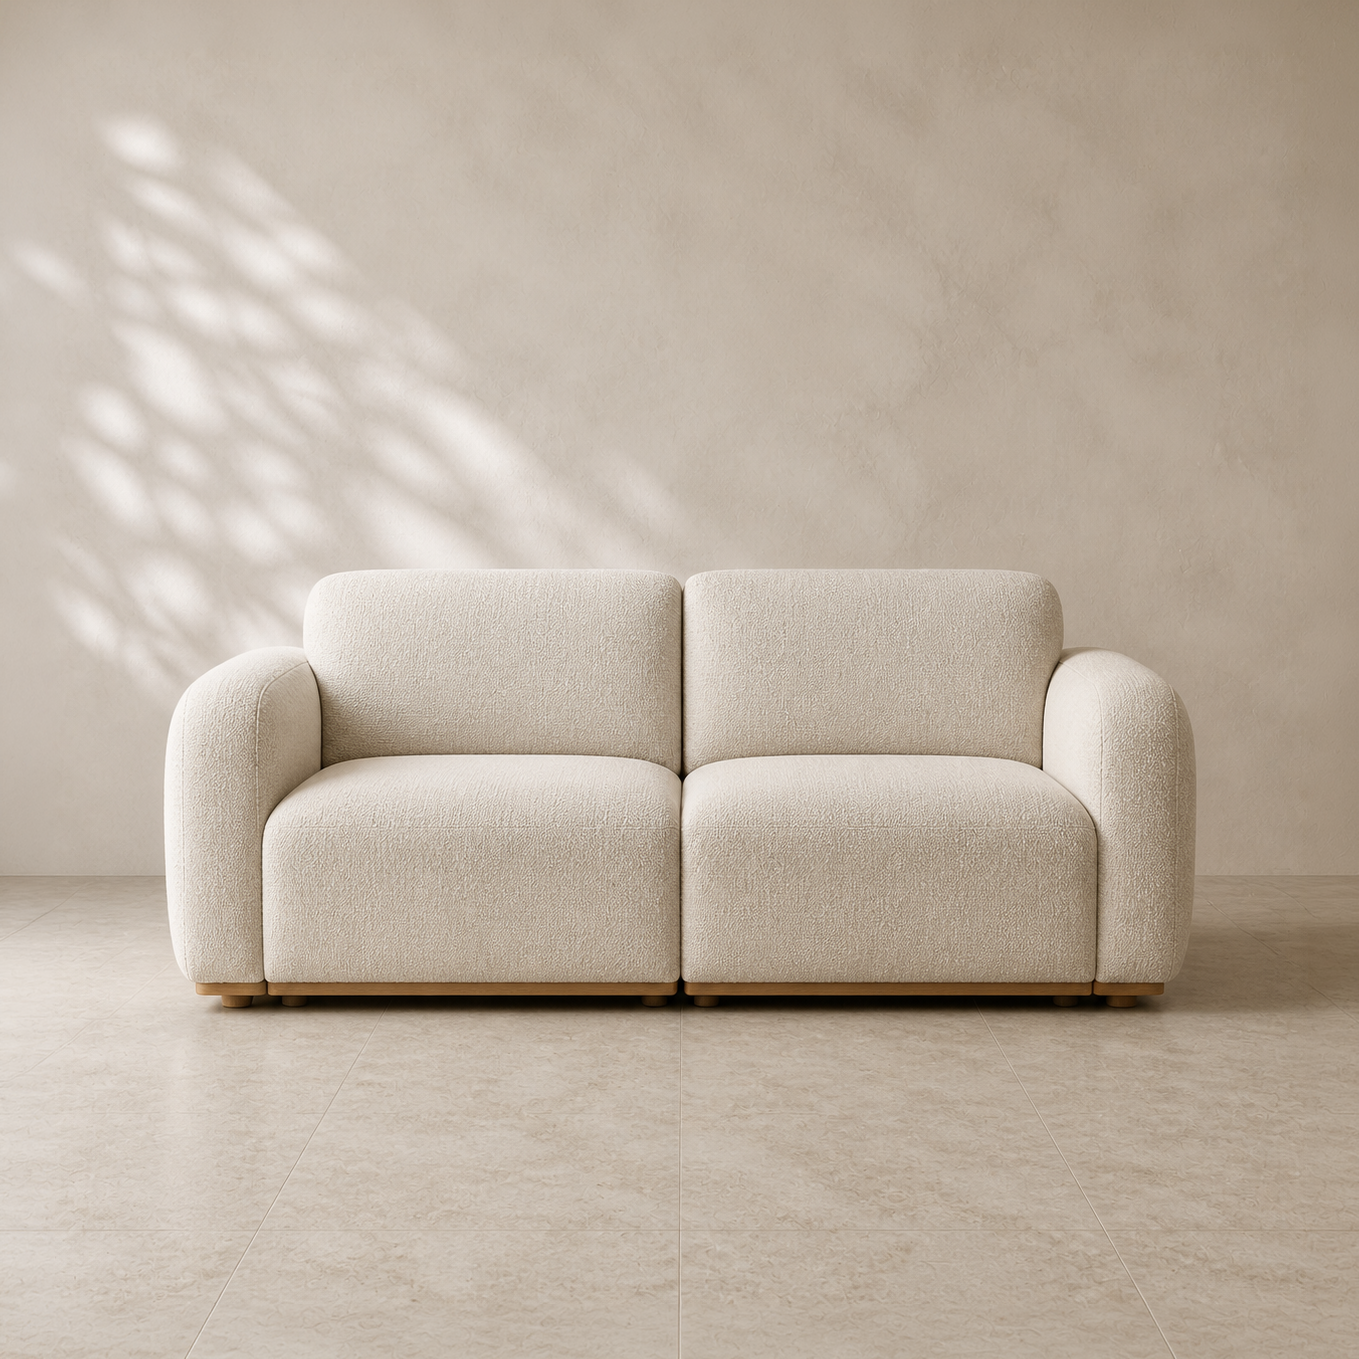
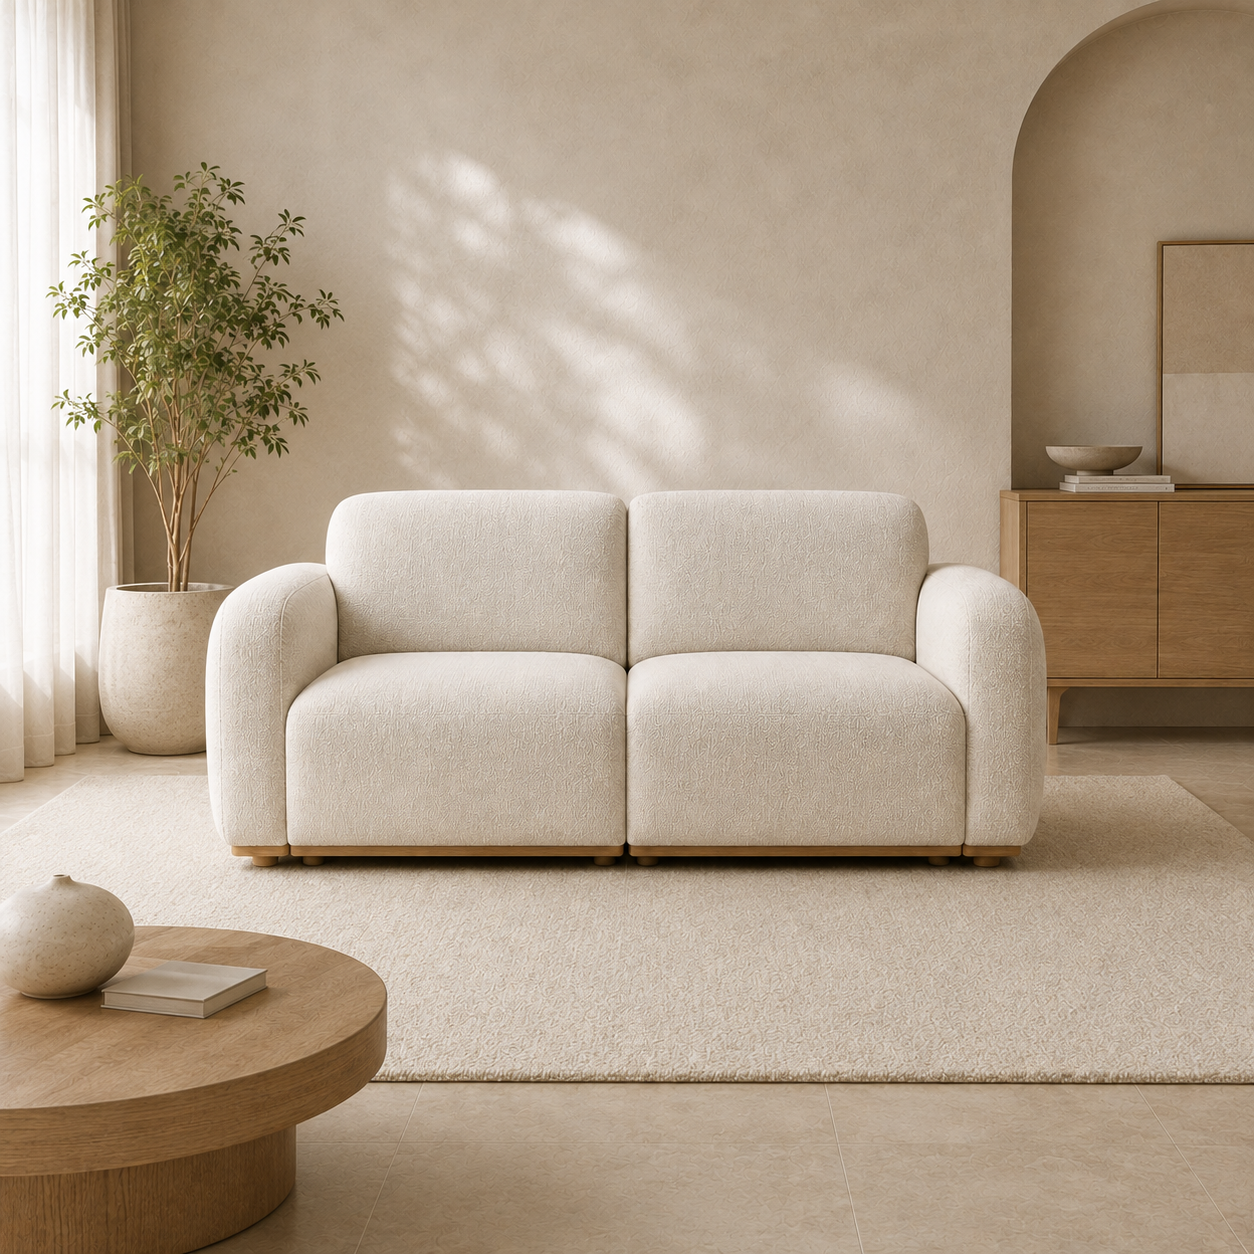
feat(catalog): add Lento and Aura galleries

diff --git a/src/modules/catalog/mock-data.ts b/src/modules/catalog/mock-data.ts
@@ -95,7 +95,15 @@ export const lentoSofaProduct = {
   currency: "BYN",
   image: "/images/sofas/lento-sofa/01-main.png",
   imageAlt: "Светлый двухместный диван Lento с округлыми подлокотниками",
-  gallery: [{ src: "/images/sofas/lento-sofa/01-main.png", alt: "Двухместный диван Lento" }],
+  gallery: [
+    { src: "/images/sofas/lento-sofa/01-main.png", alt: "Двухместный диван Lento" },
+    { src: "/images/sofas/lento-sofa/02-side.png", alt: "Диван Lento, вид сбоку" },
+    { src: "/images/sofas/lento-sofa/03-armrest.png", alt: "Подлокотник дивана Lento" },
+    { src: "/images/sofas/lento-sofa/04-leg.png", alt: "Опора дивана Lento крупным планом" },
+    { src: "/images/sofas/lento-sofa/05-top.png", alt: "Диван Lento, вид сверху" },
+    { src: "/images/sofas/lento-sofa/06-unfolded.png", alt: "Диван Lento в разложенном виде" },
+    { src: "/images/sofas/lento-sofa/07-main.png", alt: "Диван Lento, дополнительный общий вид" },
+  ],
   specifications: [
     { label: "Размер", value: "184 × 94 × 76 см" },
     { label: "Каркас", value: "Берёзовая фанера, массив" },
@@ -151,7 +159,15 @@ export const auraSofaProduct = {
   currency: "BYN",
   image: "/images/sofas/aura-sofa/01-main.png",
   imageAlt: "Коричневый трёхместный диван Aura с округлой спинкой",
-  gallery: [{ src: "/images/sofas/aura-sofa/01-main.png", alt: "Скульптурный диван Aura" }],
+  gallery: [
+    { src: "/images/sofas/aura-sofa/01-main.png", alt: "Скульптурный диван Aura" },
+    { src: "/images/sofas/aura-sofa/02-side.png", alt: "Диван Aura, вид сбоку" },
+    { src: "/images/sofas/aura-sofa/03-armrest.png", alt: "Подлокотник дивана Aura" },
+    { src: "/images/sofas/aura-sofa/04-leg.png", alt: "Опора дивана Aura крупным планом" },
+    { src: "/images/sofas/aura-sofa/05-top.png", alt: "Диван Aura, вид сверху" },
+    { src: "/images/sofas/aura-sofa/06-unfolded.png", alt: "Диван Aura в разложенном виде" },
+    { src: "/images/sofas/aura-sofa/07-main.png", alt: "Диван Aura, дополнительный общий вид" },
+  ],
   specifications: [
     { label: "Размер", value: "246 × 102 × 73 см" },
     { label: "Основание", value: "Массив ореха" },

diff --git a/docs/progress.md b/docs/progress.md
@@ -1012,3 +1012,18 @@ tests/e2e/accessibility.spec.ts tests/e2e/header.spec.ts --project=chromium` —
 - Product Tour: обновлены описание галереи страницы товара и расположение локальных изображений.
 - Ограничения: дополнительные фотографии `02–06` пользователь добавляет самостоятельно; до их
   добавления товары показывают единственное основное изображение без элементов переключения.
+
+## Task 68 — Галереи диванов Lento и Aura
+
+- Результат: галереи диванов Lento и Aura расширены до семи локальных изображений каждая; слайдер
+  страницы товара получает основной вид, боковой ракурс, детали подлокотника и ножек, вид сверху,
+  разложенный и дополнительный общий вид.
+- Файлы: `public/images/sofas/lento-sofa/`, `public/images/sofas/aura-sofa/`,
+  `src/modules/catalog/mock-data.ts`, `docs/progress.md`.
+- Проверки: Prettier, проверка существования всех 35 изображений из mock-данных, ESLint, TypeScript,
+  Jest и production build.
+- Переменные окружения: нет.
+- Архитектура: без изменений; использована существующая структура товарных подпапок и массива
+  `gallery`.
+- Product Tour: без изменений.
+- Ограничения: нет.
